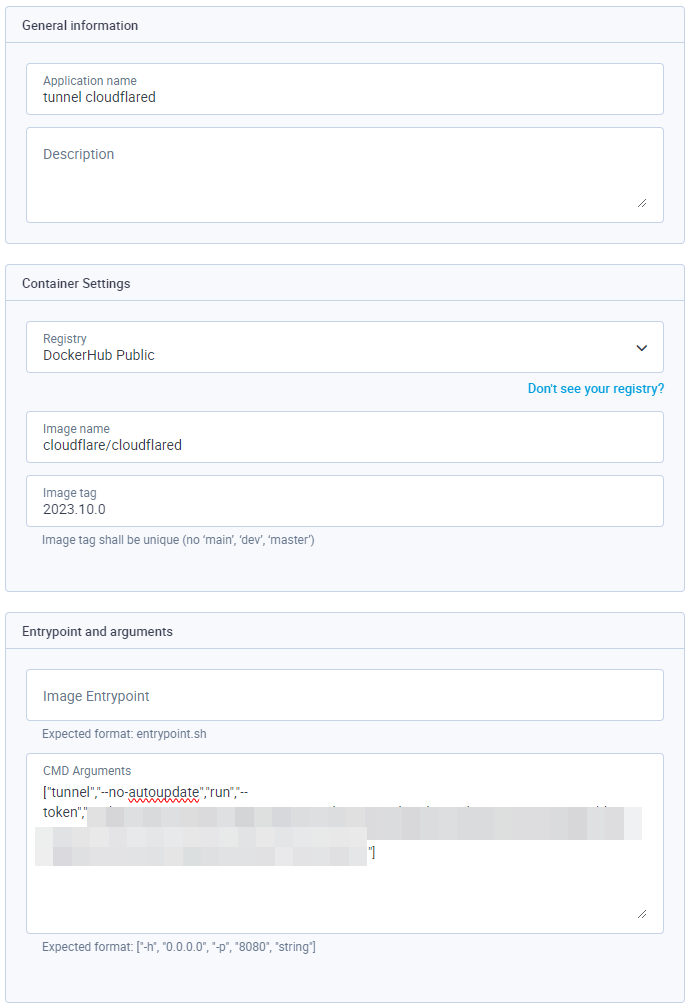
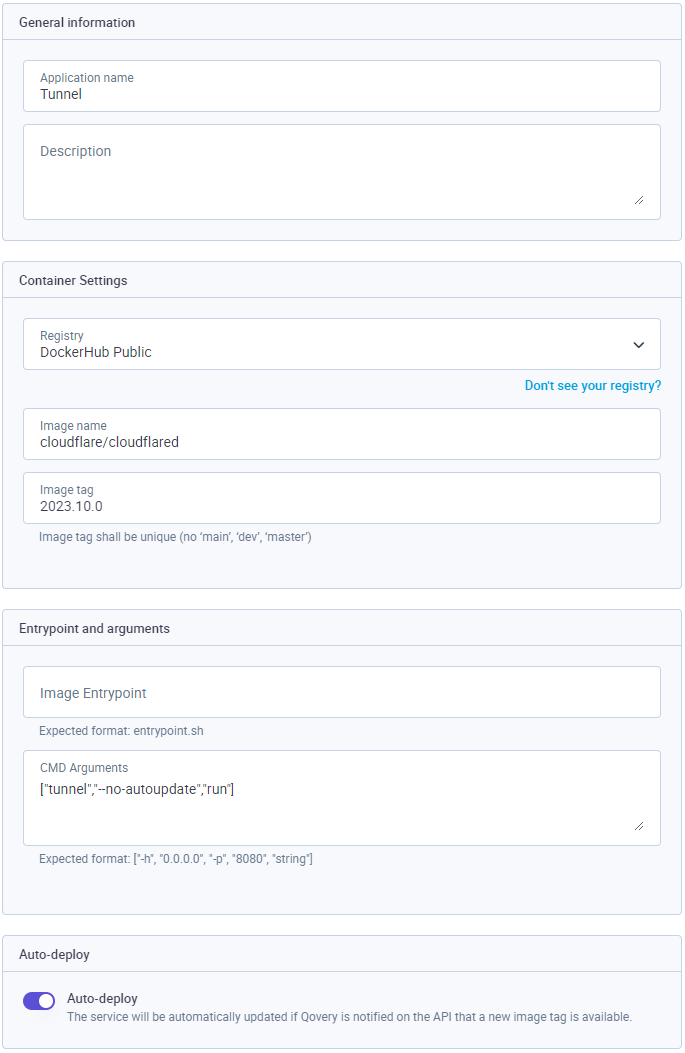
Update Cloudflare tutorial

diff --git a/website/guides/tutorial/setting-up-cloudflare-and-custom-domain-on-qovery.md b/website/guides/tutorial/setting-up-cloudflare-and-custom-domain-on-qovery.md
@@ -69,17 +69,17 @@ This is the requirement to make Custom Domain work properly using Cloudflare as 
 
 ### Restrict pods access
 
-In order to restrict the pods access to Cloudflare only, you have two ways to perform it:
+If you want to limit the application access via Cloudflare only, you have two ways to perform it:
 
 #### IP whitelisting
 
-In Qovery it is possible to whitelist IP ranges to your application:
-* Go in the advanced settings section:
+In Qovery it is possible to whitelist a range of IPs that can reach your application:
+* In the advanced settings section of your application:
 <p align="center">
   <img src="/img/cloudflare/8.png" alt="Cloudflare" />
 </p>
 * Get the [Cloudflare ips](https://www.cloudflare.com/ips-v4/)
-* Edit the `network.ingress.whitelist_source_range` setting to put the Cloudflare ips separated with a comma:
+* Edit the `network.ingress.whitelist_source_range` setting and add the Cloudflare IPs separated with a comma:
 <p align="center">
   <img src="/img/cloudflare/9.png" alt="Cloudflare" />
 </p>
@@ -87,15 +87,25 @@ In Qovery it is possible to whitelist IP ranges to your application:
 
 #### Cloudflared
 
-You can also install Cloudflared with docker by following this [documentation](https://developers.cloudflare.com/cloudflare-one/connections/connect-networks/get-started/create-remote-tunnel/)
-With this method you don't have to expose publicly your application.
+Cloudflared establishes outbound connections (tunnels) between your resources and Cloudflare’s global network.
 
-You can run directly the Cloudflared docker container oin your `Qovery` environment.
-By creation the following service:
+You have different ways to install Cloudflared on your cluster, you can find the installation instructions within this [documentation](https://developers.cloudflare.com/cloudflare-one/connections/connect-networks/get-started/create-remote-tunnel/)
+Since Cloudflared establishes a tunnel for you and the domain and TLS management is done by Cloudflare, you don't need to expose publicly the application during the setup (See [port setup][docs.using-qovery.configuration.application#ports]
+
+You can decide to install Cloudflared by yourself or via Qovery. Within the section below, you will find documentation on how to install Cloudflared as a container in one of the Qovery environments.
+By creating and deploying the following service, using the Cloudflared image:
 
 <p align="center">
   <img src="/img/cloudflare/10.png" alt="Cloudflare" />
 </p>
+
+<Alert type="info">
+
+Create a `TUNNEL_TOKEN` secret environment variable (Scope: Environmnent) to pass the Cloudflare token.
+<p align="center">
+  <img src="/img/cloudflare/13.png" alt="Cloudflare" />
+</p>
+</Alert>
 
 Once your tunnel is created and connected, you have to set the public hostname and the related service settings.
 
@@ -109,7 +119,11 @@ To get the service name of your application deployed by Qovery, you can get it i
   <img src="/img/cloudflare/12.png" alt="Cloudflare" />
 </p>
 
-A Cloudflare helm chart is also available [here](https://github.com/cloudflare/helm-charts)
+<Alert type="info">
+
+This setup works for static environments but not for dynamic ones since the service name is dynamic. We should probably suggest to use the [cloudflared helm chart](https://github.com/cloudflare/helm-charts) once we release helm deployment
+
+</Alert>
 
 ## Conclusion
 
@@ -122,4 +136,4 @@ After following the steps from above, our application should be accessible using
 In the guide we went through all the necessary steps to configure Cloudflare and Qovery to make use of your custom domain.
 
 
-
+[docs.using-qovery.configuration.application#ports]: /docs/using-qovery/configuration/application/#ports
